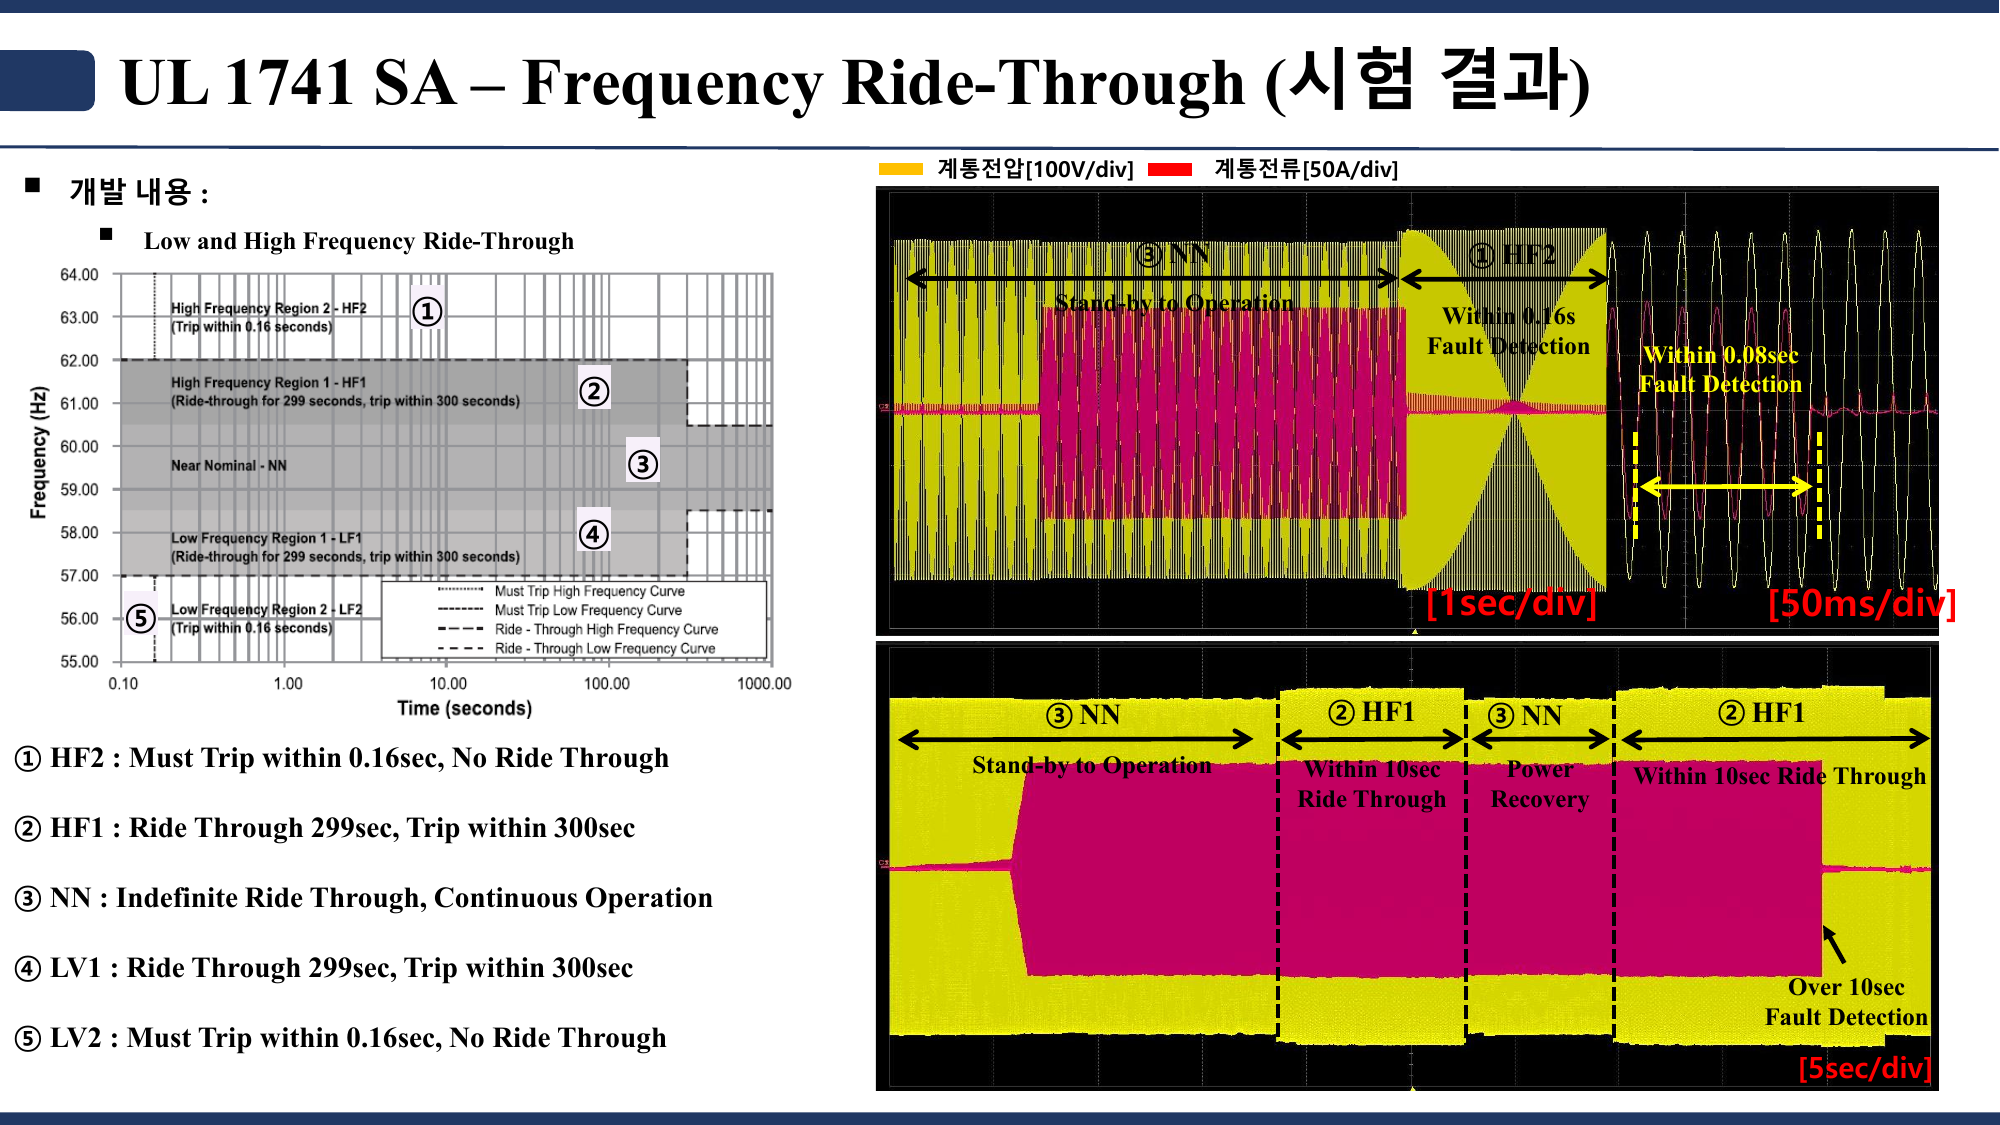
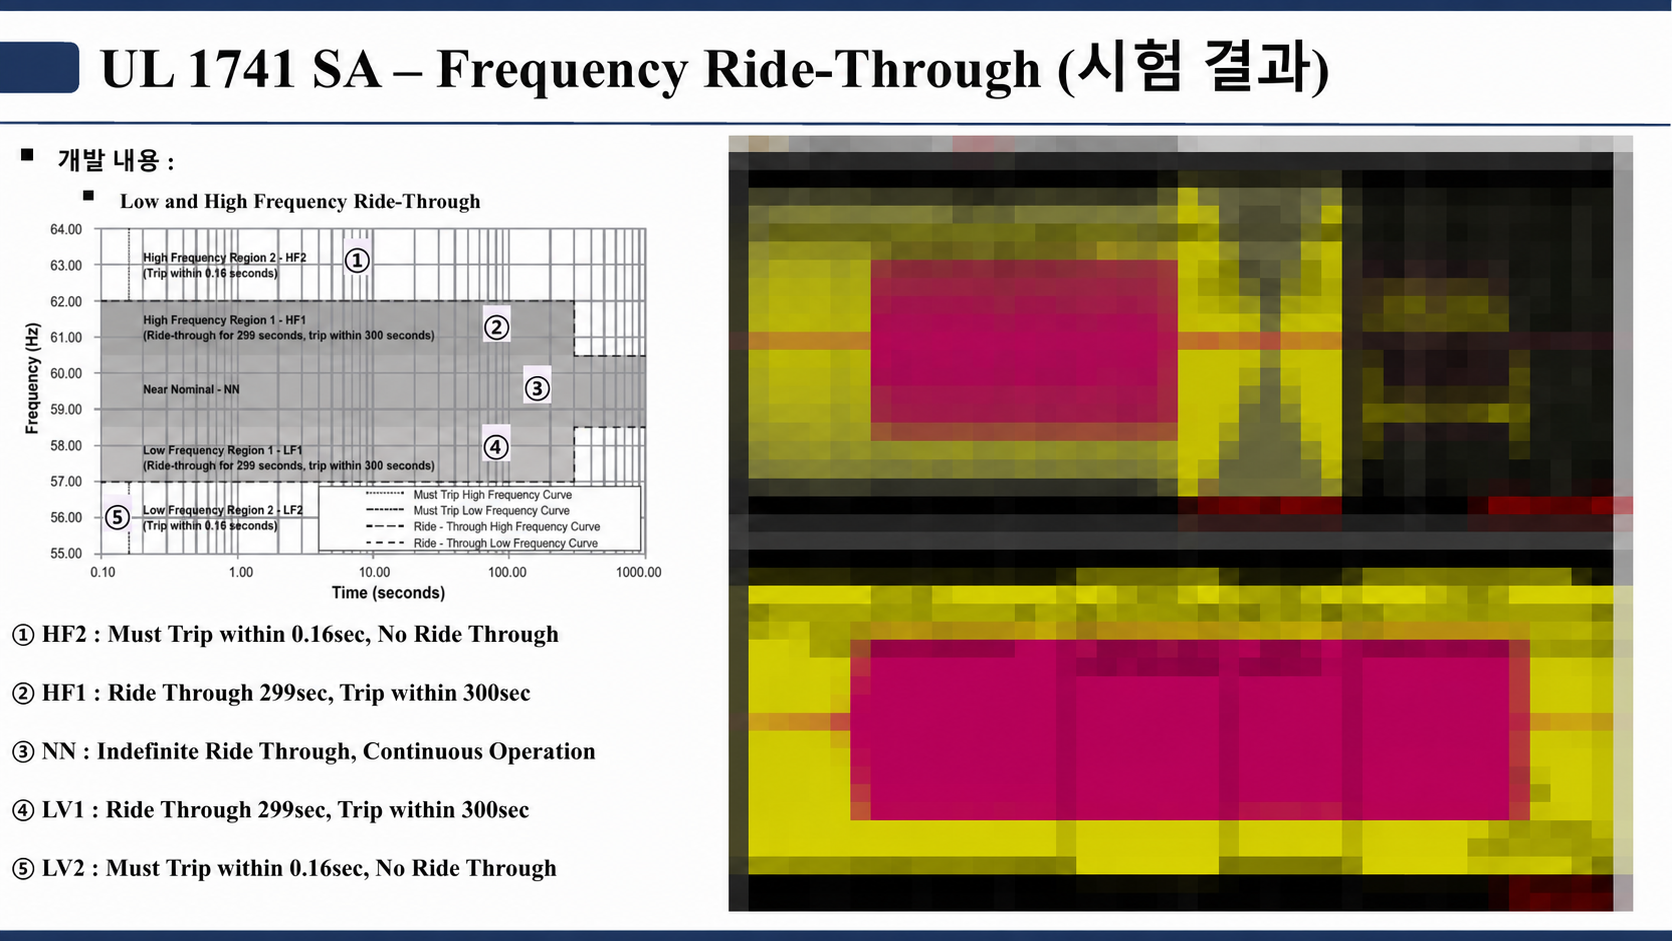
docs: explain verification assets and workspace structure

diff --git a/assets/portfolio/README.md b/assets/portfolio/README.md
@@ -1,0 +1,166 @@
+# 전력변환·계통연계 검증 포트폴리오
+
+이 폴더는 UL 1741 SA 기반 ESS 계통연계 시험과 UPS 검증 사례를 시험 목적별로
+정리합니다. UL 1741은 분산에너지자원에 사용하는 인버터·컨버터·제어기·
+계통연계 장비를 다루는 표준이며, Supplement A(SA)는 계통 이상 상태에서의
+전력 조정과 계통 지원 기능을 검증하기 위한 시험 방법을 보완했습니다.
+
+> **공개 범위**
+>
+> UL 1741 측정 파형은 시험 조건과 케이스만 남기고 모자이크 처리했습니다.
+> 아래 내용은 수행 범위와 해석 관점을 보여 주는 포트폴리오 요약이며, 공인
+> 인증서나 전체 시험성적서가 아닙니다. 이미지의 수치와 시간은 해당 캡처의
+> 설정·결과이므로 최신 표준의 보편 요구값으로 일반화하지 않습니다.
+
+## 한눈에 보기
+
+| 구분 | 시험 | 확인하려는 내용 |
+|---|---|---|
+| UL 1741 SA | ESS Power Control | 충전·대기·방전 상태 전환과 완만한 지령 변경 |
+| UL 1741 SA | Ramp Rate | 정상 기동·소프트스타트 시 출력 변화율 |
+| UL 1741 SA | Voltage Ride-Through | 전압 이상 영역별 유지 운전·출력 정지·복귀 |
+| UL 1741 SA | Frequency Ride-Through | 주파수 이상 영역별 유지 운전·출력 정지·복귀 |
+| UL 1741 SA | Anti-Islanding | 계통 분리 검출과 출력 정지 |
+| UPS | Parallel Operation | 병렬운전 정상상태와 전류 분담 |
+| UPS | Load Transient | 부하 단계 변화 시 전압 유지와 전류 응답 |
+| UPS | Hot Swap | 모듈 투입·분리 시 전류 이관과 출력 연속성 |
+
+## UL 1741 SA 시험 케이스
+
+### 1. ESS Power Control
+
+![ESS 충전·대기·방전 시험 케이스](./ul1741_ess_power_control.png)
+
+- **시험 목적:** ESS가 충전, 대기, 방전 지령에 따라 유효전력 방향과 크기를
+  전환하는지 확인합니다.
+- **시험 입력·상태:** `Charge → Stand-by → Discharge` 순으로 운전 상태를
+  바꾸고, 각 상태 사이에는 급격한 계단 입력 대신 Soft Change Reference를
+  적용합니다.
+- **확인 항목:** 상태 전환 중 계통전압을 유지하면서 계통전류가 지령 방향으로
+  이동하고, 대기 상태에서는 전력 교환이 최소화되는지를 봅니다.
+- **이미지 매칭:** 공개 이미지에는 시험 제목, 개발 항목과 전압·전류 채널
+  범례만 남겼습니다. 실제 모드 전환 파형과 계측값은 모자이크 처리했습니다.
+
+### 2. Ramp Rate
+
+![Ramp Rate 시험 케이스](./ul1741_ramp_rate.png)
+
+- **시험 목적:** 출력 지령이 바뀔 때 ESS 전류가 설정된 변화율 범위로 증가하는지
+  확인합니다.
+- **시험 입력·상태:** 캡처에 사용한 네 조건은 정상 기동 `50%·100% I_rated/s`,
+  소프트스타트 `10%·20% I_rated/s`입니다.
+- **확인 항목:** 저전류 구간에서 정격전류의 95% 부근까지 도달하는 시간과 기울기가
+  설정한 상·하한 안에 있는지를 비교합니다.
+- **이미지 매칭:** 왼쪽 개념도와 ①~④ 설정값이 시험 케이스입니다. 오른쪽의 네
+  측정 파형은 공개본에서 모자이크 처리했습니다.
+
+| 번호 | 캡처 설정 | 정격 도달 시간의 해석 |
+|---:|---|---|
+| ① | Minimum normal ramp-up: `50% I_rated/s` | 약 2초 |
+| ② | Maximum normal ramp-up: `100% I_rated/s` | 약 1초 |
+| ③ | Minimum soft-start ramp-up: `10% I_rated/s` | 약 10초 |
+| ④ | Maximum soft-start ramp-up: `20% I_rated/s` | 약 5초 |
+
+### 3. Voltage Ride-Through
+
+![Voltage Ride-Through 시험 케이스](./ul1741_voltage_ride_through.png)
+
+- **시험 목적:** 계통전압이 정상 범위를 벗어났을 때 영역별 요구시간 동안 운전을
+  유지하거나 출력을 중지하고, 전압 복귀 후 정상 운전으로 돌아오는지 확인합니다.
+- **시험 입력·상태:** 정상전압(NN)에서 HV 또는 LV 시험 영역으로 전압을 단계
+  변경한 뒤 다시 정상전압으로 복귀시킵니다.
+- **확인 항목:** `ride-through`, `cease to energize`, `trip`, `power recovery`가
+  각 영역의 시간 조건과 일치하는지를 구분해 봅니다.
+- **이미지 매칭:** 왼쪽 전압-시간 영역도와 ①~⑥ 목록이 시험 케이스입니다.
+  오른쪽 측정 파형은 모자이크 처리했으며, cease와 trip의 세부 구분은 그림에
+  남아 있는 주석을 기준으로 읽습니다.
+
+| 번호 | 영역 | 캡처에 표시된 동작·시간 |
+|---:|---|---|
+| ① | HV2 | 0.16초 이내 trip |
+| ② | HV1 | 12초 ride-through, 13초 이내 trip |
+| ③ | NN | 연속 운전 |
+| ④ | LV1 | 20초 ride-through, 21초 이내 trip |
+| ⑤ | LV2 | 10초 ride-through, 11초 이내 trip |
+| ⑥ | LV3 | 1초 ride-through, 1.5초 이내 trip |
+
+### 4. Frequency Ride-Through
+
+![Frequency Ride-Through 시험 케이스](./ul1741_frequency_ride_through.png)
+
+- **시험 목적:** 계통주파수가 정상 범위를 벗어났을 때 영역별 유지 운전 또는
+  출력 정지 동작을 확인합니다.
+- **시험 입력·상태:** 정상주파수(NN)에서 고주파(HF)·저주파(LF) 영역으로
+  주파수를 이동한 뒤 정상 영역으로 복귀시킵니다.
+- **확인 항목:** 주파수 이상 지속시간, ride-through 유지 여부, trip 시점과
+  정상주파수 복귀 후 전력 회복을 봅니다.
+- **이미지 매칭:** 왼쪽 주파수-시간 영역도와 ①~⑤ 목록이 시험 케이스입니다.
+  오른쪽 측정 파형과 응답시간은 공개본에서 모자이크 처리했습니다.
+
+| 번호 | 영역 | 캡처에 표시된 동작·시간 |
+|---:|---|---|
+| ① | HF2 | 0.16초 이내 trip, ride-through 없음 |
+| ② | HF1 | 299초 ride-through, 300초 이내 trip |
+| ③ | NN | 연속 운전 |
+| ④ | LF1 | 299초 ride-through, 300초 이내 trip |
+| ⑤ | LF2 | 0.16초 이내 trip, ride-through 없음 |
+
+### 5. Anti-Islanding
+
+![Anti-Islanding 시험 케이스](./ul1741_anti_islanding.png)
+
+- **시험 목적:** 계통이 분리되어 RLC 부하와 인버터만 남는 단독운전 상태를
+  검출하고 제한시간 안에 부하 공급을 중지하는지 확인합니다.
+- **시험 입력·상태:** 계통이 부하를 공급하는 상태에서 인버터 출력을 부하와
+  가깝게 맞춘 뒤, 계통 접촉기 S3를 개방해 islanding 조건을 만듭니다.
+- **확인 항목:** S3 개방 시점부터 islanding 검출과 `cease to energize`까지의
+  시간을 확인합니다. 보존된 캡처는 IEEE 1547-2003 기준의 2초 요구를 표시합니다.
+- **이미지 매칭:** 상단 RLC 회로와 ①~④ 절차가 시험 구성입니다. 하단의 전압·
+  계통전류·인버터전류 측정 파형은 모자이크 처리했습니다.
+
+## UPS 검증 파형
+
+UL 1741 시험과 별개로, UPS 병렬운전과 과도상태에서 출력 연속성과 전류 분담을
+확인한 파형입니다. 채널의 상세 모듈 번호가 공개 화면에 명시되지 않은 경우에는
+전압·전류 채널로만 설명합니다.
+
+### 1. Parallel Operation
+
+![UPS 병렬운전 파형](./ups_parallel_waveform.png)
+
+- 출력전압은 `219.2 V RMS`로 표시되어 있습니다.
+- 전체 전류로 보이는 채널은 `10.07 A RMS`, 두 분담 전류 채널은 각각
+  `5.31 A RMS`, `4.81 A RMS`입니다.
+- 두 분담 전류의 합이 전체 전류와 가까운지, 위상과 파형이 안정적으로 유지되는지
+  확인하는 정상상태 자료입니다.
+
+### 2. Load Transient
+
+![UPS 부하변동 파형](./ups_load_transient.png)
+
+- `0 ms` 부근에서 부하전류 크기가 단계적으로 증가합니다.
+- 부하 변화 전후에 출력전압 파형이 연속적으로 유지되는지 확인합니다.
+- 병렬 전류 채널이 새 부하 수준으로 함께 이동하고 과도 진동이 안정화되는지를
+  비교합니다.
+
+### 3. Hot Swap
+
+![UPS Hot Swap 파형](./ups_hot_swap.png)
+
+- `0 ms` 부근의 모듈 투입·분리 이벤트 전후 전류 채널 변화를 비교합니다.
+- 한 채널의 전류가 사라지거나 추가될 때 나머지 채널로 부하가 이관되는지 봅니다.
+- 전류 이관 중 출력 공급이 끊기지 않고 파형이 새로운 정상상태로 수렴하는지가
+  핵심 확인 항목입니다.
+
+## 참고자료
+
+- [UL Solutions — Distributed Energy Resource Testing](https://www.ul.com/services/distributed-energy-resource-testing)
+- [UL Solutions — UL 1741 SA Advanced Inverter Testing](https://www.ul.com/news/ul-launches-advanced-inverter-testing-and-certification-program)
+- [IEEE Resource Center — Revised IEEE 1547](https://resourcecenter.ieee.org/education/tutorials/pes_ed_tut04_1547_091318_sld)
+
+## 공개·해석 원칙
+
+- 비공개 회로·제어 파라미터와 원본 계측 파형은 공개하지 않습니다.
+- 파일명은 외부 링크가 끊기지 않도록 유지합니다.
+- 표준 판정은 적용 판본, Source Requirement Document와 시험 조건을 함께
+  확인해야 하며, 이 페이지의 요약만으로 적합성을 판정하지 않습니다.

diff --git a/README.md b/README.md
@@ -1,61 +1,72 @@
 # Hwang Duckhwan Portfolio Workspace
 
-This repository stores public portfolio assets used by the Notion portfolio page.
+전력변환·계통연계 검증 경험과 전기전자·제어 분야의 개인 학습 기록을 한곳에서
+관리하는 포트폴리오 저장소입니다. 결과 이미지만 나열하지 않고, 각 자료의 목적,
+검증 관점과 다시 확인할 수 있는 근거를 함께 남깁니다.
 
-## Portfolio
+- [Notion 포트폴리오](https://app.notion.com/p/c6a0eb19ff868321b1eb81d66ce88111)
+- [검증 자산: UL 1741 SA·UPS 시험 설명](./assets/portfolio/)
+- [전공학습 전체 목차](./studies/전공학습/)
+- [제어시스템 설계](./studies/전공학습/02_제어시스템_설계/)
 
-- Notion: https://app.notion.com/p/c6a0eb19ff868321b1eb81d66ce88111
+## 저장소 구조
 
-## Repository map
+```text
+Portfolio_WorkSpace/
+├─ assets/portfolio/                 # UL 1741 SA·UPS 검증 자산과 상세 설명
+├─ studies/전공학습/
+│  ├─ 01_전기전자_핵심기초/          # 5과목·46개 단원
+│  ├─ 02_제어시스템_설계/            # 노트 7개·MATLAB 예제·비교 프로젝트
+│  ├─ 03_모델링_시뮬레이션/          # 계획
+│  ├─ 04_전력변환_회로/              # 계획
+│  ├─ 05_모터구동_제어/              # 계획
+│  ├─ 06_센서_신호처리/              # 계획
+│  ├─ 07_전동화_시스템/              # 계획
+│  ├─ 08_공학기초_수학/              # 계획
+│  ├─ 09_기술동향_리서치/            # 계획
+│  └─ 10_산업사례_리뷰/              # 계획
+└─ docs/superpowers/                 # 작업 설계·구현 계획 기록
+```
 
-- `assets/portfolio/`: exported portfolio images and verification evidence.
-- `studies/전공학습/`: career-oriented engineering study notes, simulations,
-  and implementation examples.
-- `README.md`: public index for the portfolio asset set.
+## 주요 콘텐츠
 
-## Engineering study highlights
+| 영역 | 현재 내용 | 바로가기 |
+|---|---|---|
+| 계통연계·ESS 검증 | ESS Power Control, Ramp Rate, Voltage/Frequency Ride-Through, Anti-Islanding | [시험 설명](./assets/portfolio/#ul-1741-sa-시험-케이스) |
+| UPS 검증 | Parallel Operation, Load Transient, Hot Swap | [파형 설명](./assets/portfolio/#ups-검증-파형) |
+| 전기전자 핵심기초 | 회로이론·전자기학·전자회로·논리회로·신호와 시스템, 총 46개 단원 | [학습 목차](./studies/전공학습/01_전기전자_핵심기초/) |
+| 제어시스템 설계 | 핵심 노트 7개, PI/IP 1차 시스템 MATLAB 예제, PI/IP/PID 비교 프로젝트 | [제어 학습](./studies/전공학습/02_제어시스템_설계/) |
 
-- [Circuit theory](./studies/전공학습/01_전기전자_핵심기초/01_회로이론/):
-  nine study units from circuit laws through two-port networks, with seven
-  MATLAB verification examples and generated result captures.
-- [Control-system design](./studies/전공학습/02_제어시스템_설계/):
-  original notes covering classical and state-space control, plus a runnable
-  PI/IP comparison example.
+## 검증 자산
 
-The [major-study index](./studies/전공학습/) separates completed notes and
-executable evidence from subject folders that are still scaffolds.
+[전력변환·계통연계 검증 포트폴리오](./assets/portfolio/)에서는 UL 1741 SA와
+UPS 자료를 시험 목적별로 분리했습니다. UL 1741 공개 이미지는 시험 케이스만
+남기고 실제 측정 파형과 계측값을 모자이크 처리했습니다.
 
-## Assets
+- **UL 1741 SA:** ESS 충·방전 전력제어, Ramp Rate, 전압·주파수 Ride-Through,
+  Anti-Islanding
+- **UPS:** 병렬운전, 부하변동, Hot Swap
 
-Representative images are stored under `assets/portfolio/`.
+## 전공학습
 
-- `profile_hwang_Duckhwan.jpg`
-- `hils_test_environment.png`
+### 작성 완료
 
-### UL 1741 / ESS verification
+- **전기전자 핵심기초:** 5과목 46개 단원. 각 단원은 `핵심 정리 → 확인 근거 →
+  다음 탐구`로 끝나며 계산 예제와 공개 참고자료를 연결합니다.
+- **회로이론 실행 검증:** MATLAB 예제 7개와 결과 캡처 7개를 포함합니다.
+- **제어시스템 설계:** 고전제어·디지털제어·상태공간 노트 7개와 실행 가능한
+  PI/IP 예제, PI/IP/PID 비교 프로젝트를 포함합니다.
 
-UL 1741-related test coverage documented in this portfolio workspace:
+### 계획 영역
 
-- ESS active power and power control verification
-- Ramp-rate control verification
-- Voltage ride-through verification
-- Frequency ride-through verification
-- Anti-islanding detection verification
+`03_모델링_시뮬레이션`부터 `10_산업사례_리뷰`까지는 학습 범위를 먼저 구분한
+폴더입니다. 본문과 실행 근거가 추가되기 전에는 완료 콘텐츠로 표시하지 않습니다.
 
-- `ul1741_ess_power_control.png`
-- `ul1741_ramp_rate.png`
-- `ul1741_voltage_ride_through.png`
-- `ul1741_frequency_ride_through.png`
-- `ul1741_anti_islanding.png`
+## 작성·공개 원칙
 
-### UPS verification
-
-- `ups_parallel_waveform.png`
-- `ups_load_transient.png`
-- `ups_hot_swap.png`
-
-## Maintenance notes
-
-- Keep exported filenames stable so external portfolio pages do not break.
-- Add new evidence images under `assets/portfolio/` and list them here with the
-  project or verification area they support.
+1. 외부 자료는 출처를 남기고 설명·수식·도식은 직접 재구성합니다.
+2. 기술 문서는 `개념 → 적용 조건 → 계산·검증 → 학습 기록 → 다음 탐구` 순서로
+   정리합니다.
+3. 시뮬레이션과 코드는 실행 조건, 파라미터와 판정 기준을 함께 남깁니다.
+4. 실제 회사의 비공개 수치·회로·소스 코드와 원본 계측 파형은 공개하지 않습니다.
+5. 외부에서 참조하는 자산 파일명과 폴더 링크는 가능한 한 안정적으로 유지합니다.
